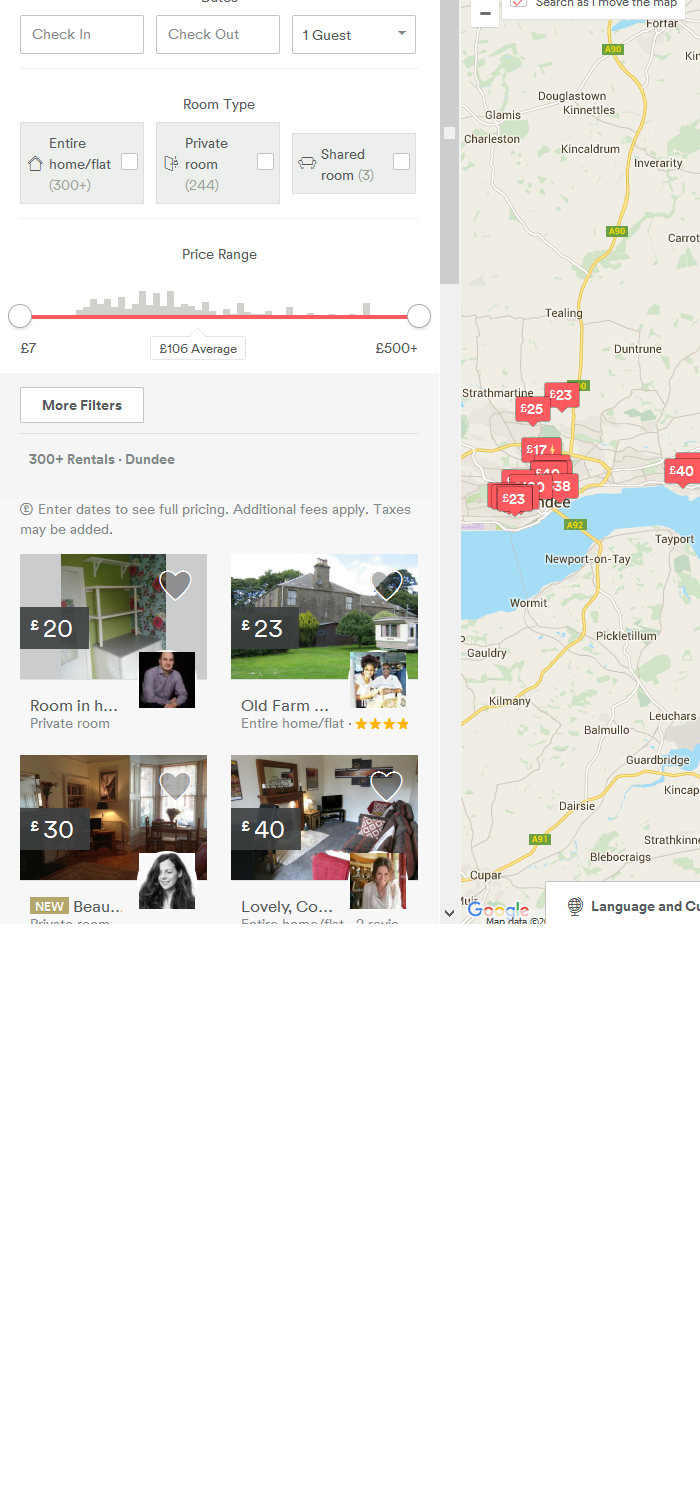
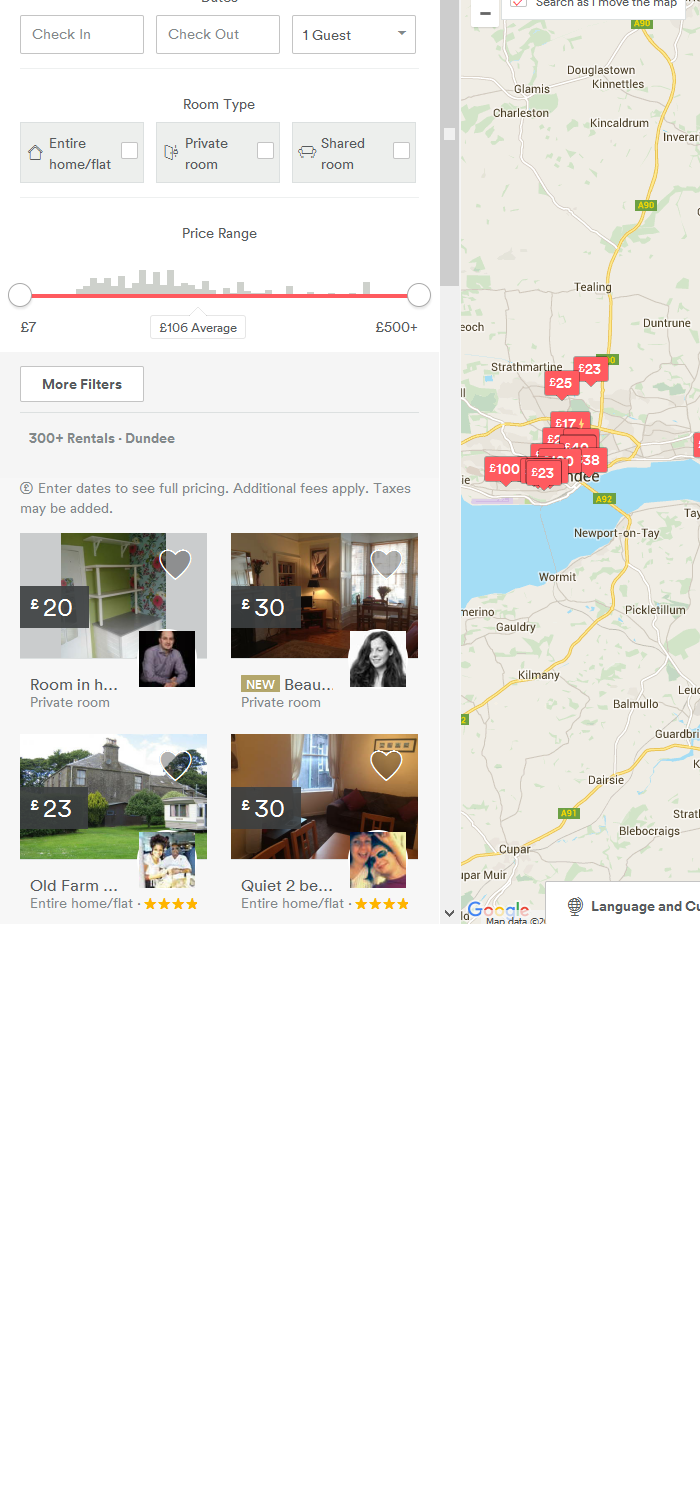
added call to click method for casper to paginate

diff --git a/src/server/scraping/getLocationLinks.js b/src/server/scraping/getLocationLinks.js
@@ -28,15 +28,24 @@ var searchLocation = casper.cli.get(0);
 
 casper.start('http://www.airbnb.co.uk/');
 
-casper.waitForSelector(".panel-dark", function() {
-    casper.sendKeys('#location', searchLocation);
+// perhaps put search location in own function
+casper.waitForSelector(".panel-dark", function() { // // wait for homepage to load
+    casper.sendKeys('#location', searchLocation);   // once loaded enter location into input box
 });
 
+// click on submit button to display properties in given location
 casper.thenClick('button#submit_location>span');
+
+//casper.waitForSelector("i.icon-caret-right", function() {
+//    casper.sendKeys('#location', searchLocation);
+//});
+
+//click next page
+casper.thenClick("i.icon-caret-right.ct-active");
 
 casper.then(function() {
     collectedLinks = this.evaluate(getLinks);    // aggregate results for the 'casperjs' search
-    this.wait(150, function () {
+    this.wait(300, function () {
         this.capture('casperScreenShot.png', {
             top: 100,
             left: 0,
